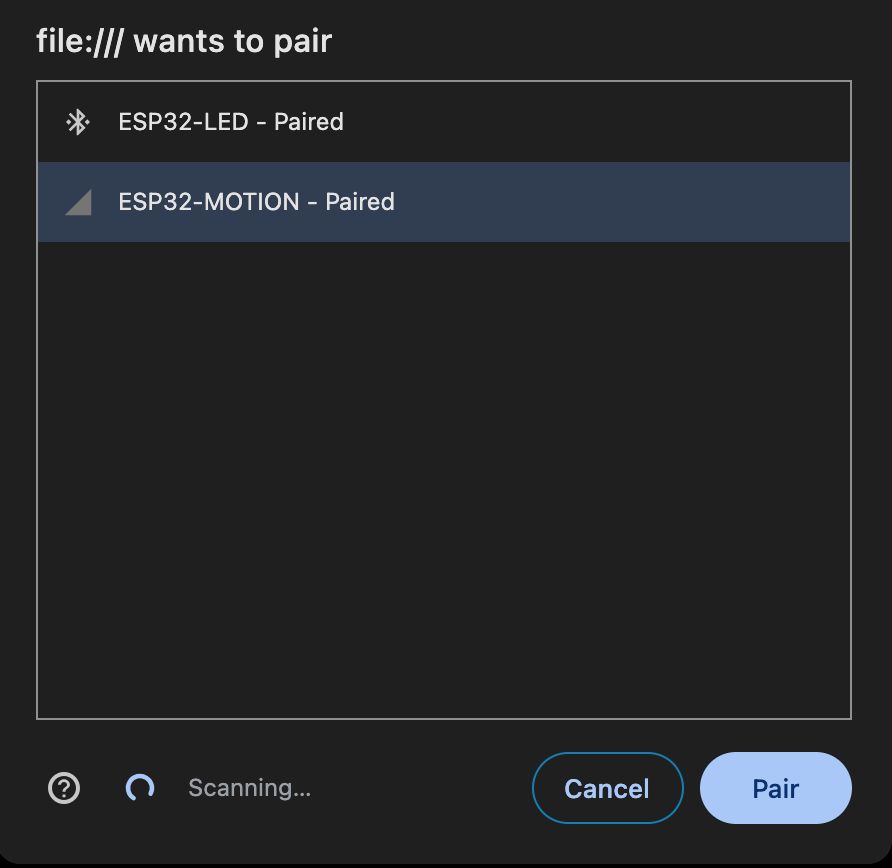
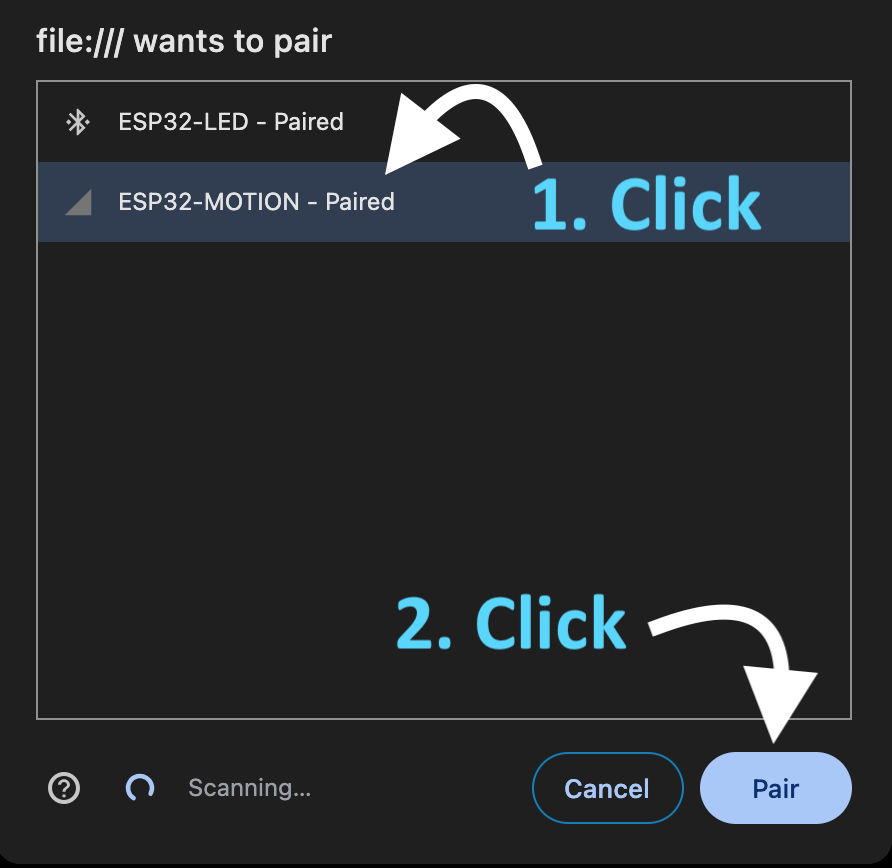
bluetooth fix

diff --git a/7.Global2_AI.html b/7.Global2_AI.html
@@ -125,6 +125,7 @@
                 </td>
             </tr>
           </table>
+
           <div>
             <table>
               <tr>
@@ -133,48 +134,58 @@
                     In order to activate the installation, we need to pair this website with the installation's microcontroller via a 
                     Bluetooth connection.
                   </p>
-                  <p class="main-text" style="padding-left: 50px; padding-right: 50px"> 
-                    <span style="color: cyan">1.</span> First, we need to activate the installation's microcontrollers. 
-                    <span style="color: cyan">It's time to get hands-on!</span> You will see on the black base of the installation, on the right side, 
-                    there are TWO small blue microcontrollers. This model of microcontroller is called an ESP32.
-                    Please press and hold for 5 seconds the "<span style="color:#12DF89 ">EN</span>" button on for each of the ESP32s.
-                  </p>
-  
-                  <img style="width: 340px; max-height: 1000px"src="" alt="esp32 on installation">
-                  <img style="padding-right: 50px; padding-bottom: 50px; width: 350px; max-height: 1000px" src="Graphics/ESP32-enable-button.png" alt="enableButtonESP32">
-  
-                  <p class="main-text" style="padding-left: 50px; padding-right: 50px">
-                    <span style="color: cyan">2.</span> 
-                    Secondly, please
-                      <button id="connectBleButton" style="background-color: black; max-height: 
-                      50px; max-width: 700px" class="activate-button">Click me to connect to bluetooth!</button>
-                    You will be prompted by the browser to pair with available devices, as shown in the pictures below. 
-                    Please select "<span style="color:#12DF89 ">ESP32-LED</span>", then click pair. 
-                    Do the same for the motion ESP32: select "<span style="color:#12DF89 ">ESP32-MOTION</span>", then click pair. 
-                  </p>
-  
-                  <table>
-                    <tr>
-                      <td>
-                        <img style="padding-left: 50px; padding-right: 30px; width: 390px; max-height: 1000px" src="Graphics/firstBluetoothPhoto.png"> 
-                      </td>
-                      <td>
-                        <img style="width: 400px; max-height: 1000px" src="Graphics/bluetoothPhoto.png">
-                      </td>
-                      <td>
-                        <p class="main-text" style="padding-left: 30px; padding-right: 30px;">
-                          Bluetooth Connection State for Lights ESP32: <strong><span style="color: red" id="bleStateLED">
-                            Currently Disconnected</span></strong>
-                        </p>
-                        <p class="main-text" style="padding-left: 30px; padding-right: 30px;">
-                          Bluetooth Connection State for Motion ESP32: <strong><span style="color: red" id="bleStateMotion">
-                            Currently Disconnected</span></strong>
-                        </p>
-                      </td>
-                    </tr>
-                  </table>
                 </td>
               </tr>
+              <tr>
+                <td>
+                  <p class="main-text" style="padding-left: 50px; padding-right: 50px"> 
+                    <b><span style="color: cyan">1. Activate the installation's microcontrollers:</span></b>   
+                    On the black <span style="color:#12DF89">base</span> of the installation, on the <span style="color:#12DF89">right</span>
+                      side, there are 2 small blue microcontrollers, called ESP32s.
+                    Please <span style="color:#12DF89">press and hold for 5 seconds</span> the "<span style="color:#12DF89 ">EN</span>" button on for each of the ESP32s.
+                  </p>
+                </td>
+                <td> 
+                  <img style="width: 340px; max-height: 1000px"src="" alt="esp32 on installation">
+                  <img style="padding-right: 50px; padding-bottom: 50px; width: 350px; max-height: 1000px" src="Graphics/ESP32-enable-button.png" alt="enableButtonESP32">
+                </td>
+              </tr>
+              <tr>
+                <td>
+                  <p class="main-text" style="padding-left: 50px; padding-right: 50px">
+                    <span style="color: cyan">2.</span> 
+                      <button id="connectBleButton" style="background-color: #12DF89; border-color: #12DF89; max-height: 
+                      50px; max-width: 700px" class="activate-button">Click me to connect to bluetooth!</button>
+                    Select "<span style="color:#12DF89 ">ESP32-LED</span>" and click pair. 
+                  </p>
+                  <p class="main-text" style="padding-left: 50px; padding-right: 30px;">
+                    Bluetooth Connection State for Lights ESP32: <strong><span style="color: red" id="bleStateLED">
+                      Currently Disconnected</span></strong>
+                  </p>
+                </td>
+                <td>
+                  <img style="padding-left: 50px; padding-right: 30px; width: 390px; max-height: 1000px" src="Graphics/firstBluetoothPhoto.png"> 
+                </td>
+              </tr>
+              <tr>
+                <td>
+                  <p class="main-text" style="padding-left: 50px; padding-right: 50px">
+                    <span style="color: cyan">3.</span> 
+                    <button id="connectBleButton" style="background-color: #12DF89; border-color: #12DF89; max-height: 
+                      50px; width: 420px" class="activate-button">Click me to connect to bluetooth again!</button>
+                    Select "<span style="color:#12DF89 ">ESP32-MOTION</span>" and click pair. 
+                  </p>
+                  <p class="main-text" style="padding-left: 50px; padding-right: 30px;">
+                    Bluetooth Connection State for Motion ESP32: <strong><span style="color: red" id="bleStateMotion">
+                      Currently Disconnected</span></strong>
+                  </p>
+                </td>
+                <td>
+                  <img style="width: 400px; max-height: 1000px" src="Graphics/bluetoothPhoto.png">
+                </td>
+
+              </tr>
+                
             </table>       
           </div>
           
@@ -188,7 +199,7 @@
                     </h2>
                 </td>
                 <td style="padding-left: 20px; ">
-                  <button id="activateInstallationButton" style="background-color: black; max-height: 50px; max-width: 240px" class="activate-button">Click me to activate!</button>
+                  <button id="activateInstallationButton" style="background-color: #12DF89; border-color: #12DF89; max-height: 50px; max-width: 240px" class="activate-button">Click me to activate!</button>
                 </td>
             </tr>
           </table>

diff --git a/7.Sensor2_AI.html b/7.Sensor2_AI.html
@@ -155,6 +155,7 @@
               </td>
           </tr>
         </table>
+
         <div>
           <table>
             <tr>
@@ -163,48 +164,58 @@
                   In order to activate the installation, we need to pair this website with the installation's microcontroller via a 
                   Bluetooth connection.
                 </p>
-                <p class="main-text" style="padding-left: 50px; padding-right: 50px"> 
-                  <span style="color: cyan">1.</span> First, we need to activate the installation's microcontrollers. 
-                  <span style="color: cyan">It's time to get hands-on!</span> You will see on the black base of the installation, on the right side, 
-                  there are TWO small blue microcontrollers. This model of microcontroller is called an ESP32.
-                  Please press and hold for 5 seconds the "<span style="color:#12DF89 ">EN</span>" button on for each of the ESP32s.
-                </p>
-
-                <img style="width: 340px; max-height: 1000px"src="" alt="esp32 on installation">
-                <img style="padding-right: 50px; padding-bottom: 50px; width: 350px; max-height: 1000px" src="Graphics/ESP32-enable-button.png" alt="enableButtonESP32">
-
-                <p class="main-text" style="padding-left: 50px; padding-right: 50px">
-                  <span style="color: cyan">2.</span> 
-                  Secondly, please
-                    <button id="connectBleButton" style="background-color: black; max-height: 
-                    50px; max-width: 700px" class="activate-button">Click me to connect to bluetooth!</button>
-                  You will be prompted by the browser to pair with available devices, as shown in the pictures below. 
-                  Please select "<span style="color:#12DF89 ">ESP32-LED</span>", then click pair. 
-                  Do the same for the motion ESP32: select "<span style="color:#12DF89 ">ESP32-MOTION</span>", then click pair. 
-                </p>
-
-                <table>
-                  <tr>
-                    <td>
-                      <img style="padding-left: 50px; padding-right: 30px; width: 390px; max-height: 1000px" src="Graphics/firstBluetoothPhoto.png"> 
-                    </td>
-                    <td>
-                      <img style="width: 400px; max-height: 1000px" src="Graphics/bluetoothPhoto.png">
-                    </td>
-                    <td>
-                      <p class="main-text" style="padding-left: 30px; padding-right: 30px;">
-                        Bluetooth Connection State for Lights ESP32: <strong><span style="color: red" id="bleStateLED">
-                          Currently Disconnected</span></strong>
-                      </p>
-                      <p class="main-text" style="padding-left: 30px; padding-right: 30px;">
-                        Bluetooth Connection State for Motion ESP32: <strong><span style="color: red" id="bleStateMotion">
-                          Currently Disconnected</span></strong>
-                      </p>
-                    </td>
-                  </tr>
-                </table>
               </td>
             </tr>
+            <tr>
+              <td>
+                <p class="main-text" style="padding-left: 50px; padding-right: 50px"> 
+                  <b><span style="color: cyan">1. Activate the installation's microcontrollers:</span></b>   
+                  On the black <span style="color:#12DF89">base</span> of the installation, on the <span style="color:#12DF89">right</span>
+                    side, there are 2 small blue microcontrollers, called ESP32s.
+                  Please <span style="color:#12DF89">press and hold for 5 seconds</span> the "<span style="color:#12DF89 ">EN</span>" button on for each of the ESP32s.
+                </p>
+              </td>
+              <td> 
+                <img style="width: 340px; max-height: 1000px"src="" alt="esp32 on installation">
+                <img style="padding-right: 50px; padding-bottom: 50px; width: 350px; max-height: 1000px" src="Graphics/ESP32-enable-button.png" alt="enableButtonESP32">
+              </td>
+            </tr>
+            <tr>
+              <td>
+                <p class="main-text" style="padding-left: 50px; padding-right: 50px">
+                  <span style="color: cyan">2.</span> 
+                    <button id="connectBleButton" style="background-color: #12DF89; border-color: #12DF89; max-height: 
+                    50px; max-width: 700px" class="activate-button">Click me to connect to bluetooth!</button>
+                  Select "<span style="color:#12DF89 ">ESP32-LED</span>" and click pair. 
+                </p>
+                <p class="main-text" style="padding-left: 50px; padding-right: 30px;">
+                  Bluetooth Connection State for Lights ESP32: <strong><span style="color: red" id="bleStateLED">
+                    Currently Disconnected</span></strong>
+                </p>
+              </td>
+              <td>
+                <img style="padding-left: 50px; padding-right: 30px; width: 390px; max-height: 1000px" src="Graphics/firstBluetoothPhoto.png"> 
+              </td>
+            </tr>
+            <tr>
+              <td>
+                <p class="main-text" style="padding-left: 50px; padding-right: 50px">
+                  <span style="color: cyan">3.</span> 
+                  <button id="connectBleButton" style="background-color: #12DF89; border-color: #12DF89; max-height: 
+                    50px; width: 420px" class="activate-button">Click me to connect to bluetooth again!</button>
+                  Select "<span style="color:#12DF89 ">ESP32-MOTION</span>" and click pair. 
+                </p>
+                <p class="main-text" style="padding-left: 50px; padding-right: 30px;">
+                  Bluetooth Connection State for Motion ESP32: <strong><span style="color: red" id="bleStateMotion">
+                    Currently Disconnected</span></strong>
+                </p>
+              </td>
+              <td>
+                <img style="width: 400px; max-height: 1000px" src="Graphics/bluetoothPhoto.png">
+              </td>
+
+            </tr>
+              
           </table>       
         </div>
         
@@ -218,7 +229,7 @@
                   </h2>
               </td>
               <td style="padding-left: 20px; ">
-                <button id="activateInstallationButton" style="background-color: black; max-height: 50px; max-width: 240px" class="activate-button">Click me to activate!</button>
+                <button id="activateInstallationButton" style="background-color: #12DF89; border-color: #12DF89; max-height: 50px; max-width: 240px" class="activate-button">Click me to activate!</button>
               </td>
           </tr>
         </table>
